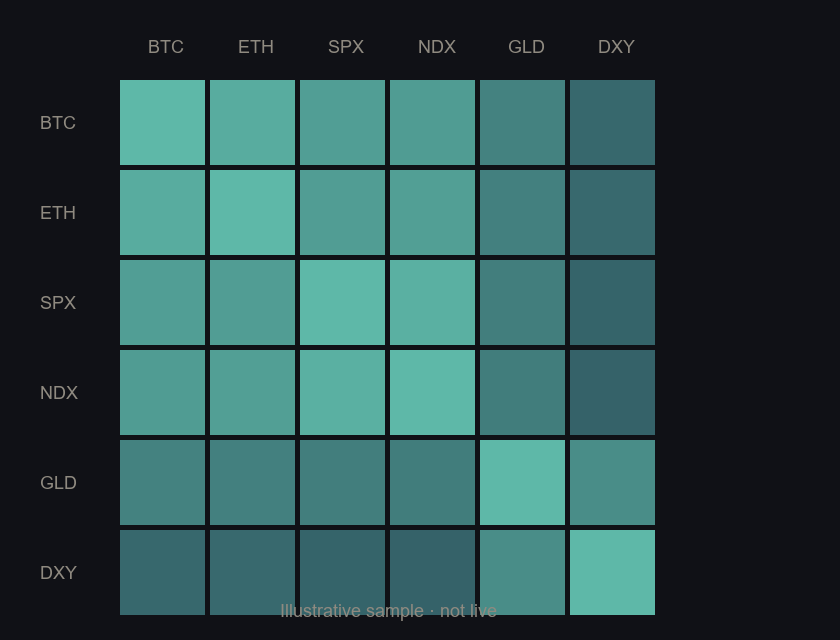
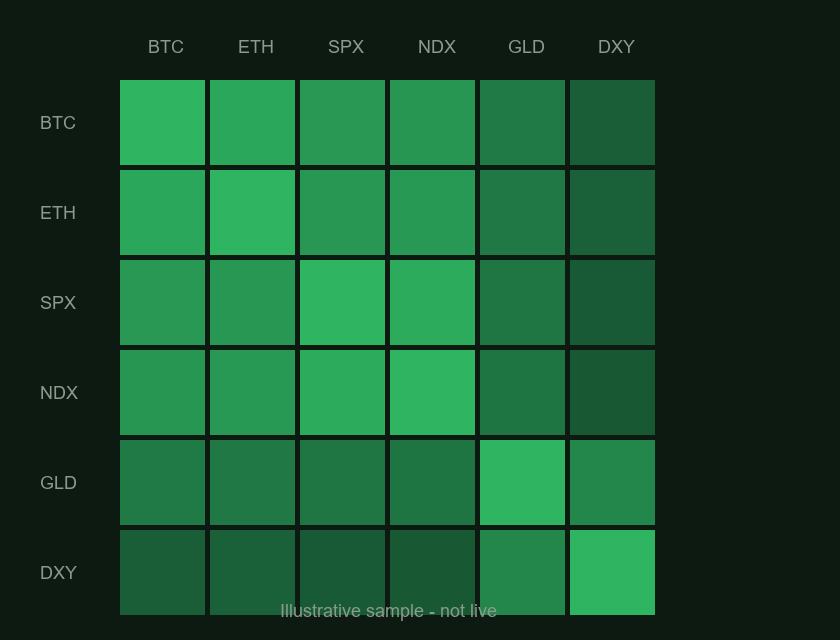
Retheme Aestus to green-primary Mark research chrome.

diff --git a/terminal.html b/terminal.html
@@ -41,13 +41,13 @@
           <defs>
             <linearGradient id="g" x1="0" y1="0" x2="1" y2="0">
               <stop offset="0" stop-color="#d46a8a"/>
-              <stop offset="0.5" stop-color="#6a9fd4"/>
-              <stop offset="1" stop-color="#5dbb72"/>
+              <stop offset="0.5" stop-color="#2f9e5a"/>
+              <stop offset="1" stop-color="#5ec47a"/>
             </linearGradient>
           </defs>
           <path d="M45 168 A 115 115 0 0 1 275 168" fill="none" stroke="#23262e" stroke-width="16" stroke-linecap="round"/>
           <path id="gaugeArc" d="M45 168 A 115 115 0 0 1 275 168" fill="none" stroke="url(#g)" stroke-width="16" stroke-linecap="round" stroke-dasharray="226 1000"/>
-          <text x="160" y="148" text-anchor="middle" font-family="Source Serif 4,serif" font-size="48" font-weight="600" fill="#a9cfee">62.4</text>
+          <text x="160" y="148" text-anchor="middle" font-family="Source Serif 4,serif" font-size="48" font-weight="600" fill="#5ec47a">62.4</text>
           <text x="160" y="172" text-anchor="middle" font-size="11.5" fill="#8f8a80">sample reading</text>
           <text x="40" y="190" text-anchor="middle" font-size="11" fill="#6a665c">0</text>
           <text x="280" y="190" text-anchor="middle" font-size="11" fill="#6a665c">100</text>
@@ -79,9 +79,9 @@
         <rect x="300" y="0" width="220" height="180" fill="#0e1a14" opacity="0.45"/>
         <rect x="520" y="0" width="100" height="180" fill="#1a0e14" opacity="0.4"/>
         <rect x="620" y="0" width="100" height="180" fill="#0e1a14" opacity="0.45"/>
-        <polyline fill="none" stroke="#5eb8a8" stroke-width="2.2"
+        <polyline fill="none" stroke="#5ec47a" stroke-width="2.2"
           points="20,120 60,110 100,95 140,100 180,88 220,105 260,112 300,90 340,78 380,70 420,75 460,68 500,80 540,110 580,125 620,95 680,72"/>
-        <polyline fill="none" stroke="#6a9fd4" stroke-width="1.4" stroke-dasharray="5 4"
+        <polyline fill="none" stroke="#2f9e5a" stroke-width="1.4" stroke-dasharray="5 4"
           points="20,130 60,128 100,118 140,122 180,115 220,125 260,130 300,120 340,112 380,108 420,110 460,105 500,112 540,128 580,135 620,120 680,108"/>
       </svg>
       <div class="note">Illustrative sample. Live data at genesis.</div>
@@ -126,8 +126,8 @@
           <circle cx="305" cy="95" r="34" fill="#1a0e14" stroke="#d46a8a" stroke-width="1.5"/>
           <text x="305" y="92" text-anchor="middle" fill="#fbe7ee" font-size="12" font-weight="600">Risk-Off</text>
           <text x="305" y="108" text-anchor="middle" fill="#d68aa0" font-size="9">ρ̄ → 1</text>
-          <path d="M90 85 Q120 60 145 85" fill="none" stroke="#6a9fd4" stroke-width="1.2"/>
-          <path d="M215 85 Q250 60 270 85" fill="none" stroke="#6a9fd4" stroke-width="1.2"/>
+          <path d="M90 85 Q120 60 145 85" fill="none" stroke="#2f9e5a" stroke-width="1.2"/>
+          <path d="M215 85 Q250 60 270 85" fill="none" stroke="#2f9e5a" stroke-width="1.2"/>
         </svg>
       </div>
       <div class="tcard">

diff --git a/style.css b/style.css
@@ -1,18 +1,18 @@
 :root {
-  --bg: #061018;
-  --bg-2: #0a1822;
-  --ink: #e7e2d4;
-  --head: #f5f1e6;
-  --muted: #8a9aa3;
-  --faint: #5c6b74;
-  --rule: #1c2c36;
-  --tide: #2f9e8f;
-  --tide-bright: #5ec4b4;
-  --sand: #d4b483;
-  --link: #7eb8c9;
-  --panel: #0c171f;
+  --bg: #07140e;
+  --bg-2: #0c1c14;
+  --ink: #e4ebe4;
+  --head: #f2f7f2;
+  --muted: #8a9a8c;
+  --faint: #5c6b5e;
+  --rule: #1c2e22;
+  --tide: #2f9e5a;
+  --tide-bright: #5ec47a;
+  --sand: #9cbc7a;
+  --link: #6fd98a;
+  --panel: #0c1a12;
   --green: #5dbb72;
-  --warn: #d4b483;
+  --warn: #c4b06a;
   --off: #d46a8a;
   --bar-h: 64px;
 }
@@ -22,8 +22,8 @@ html { scroll-behavior: smooth; }
 body {
   margin: 0;
   background:
-    radial-gradient(1200px 480px at 10% -10%, rgba(47, 158, 143, 0.14), transparent 55%),
-    radial-gradient(900px 420px at 100% 0%, rgba(212, 180, 131, 0.08), transparent 50%),
+    radial-gradient(1200px 480px at 10% -10%, rgba(47, 158, 90, 0.16), transparent 55%),
+    radial-gradient(900px 420px at 100% 0%, rgba(95, 196, 122, 0.08), transparent 50%),
     var(--bg);
   color: var(--ink);
   font-family: "Literata", "Source Serif 4", Georgia, serif;
@@ -135,7 +135,7 @@ a[aria-disabled="true"] {
 }
 .hero-aside {
   font-family: "DM Sans", sans-serif;
-  background: linear-gradient(160deg, rgba(47,158,143,0.12), transparent 60%), var(--panel);
+  background: linear-gradient(160deg, rgba(47,158,90,0.12), transparent 60%), var(--panel);
   border: 1px solid var(--rule);
   border-radius: 2px;
   padding: 18px 20px;
@@ -165,7 +165,7 @@ a[aria-disabled="true"] {
   stroke-width: 1.6;
 }
 .tide-svg path.soft {
-  stroke: rgba(47, 158, 143, 0.35);
+  stroke: rgba(47, 158, 90, 0.35);
   stroke-width: 1.2;
 }
 @media (prefers-reduced-motion: no-preference) {
@@ -285,7 +285,7 @@ a[aria-disabled="true"] {
   height: 96px;
   width: auto;
   border-radius: 50%;
-  filter: drop-shadow(0 8px 24px rgba(47, 158, 143, 0.2));
+  filter: drop-shadow(0 8px 24px rgba(47, 158, 90, 0.2));
 }
 
 h2 {
@@ -401,14 +401,14 @@ th {
 }
 .callout {
   border-left: 3px solid var(--sand);
-  background: rgba(212, 180, 131, 0.06);
+  background: rgba(156, 188, 122, 0.06);
   padding: 12px 16px;
   margin: 20px 0;
   font-size: 16px;
 }
 .honesty {
   border: 1px solid var(--rule);
-  background: linear-gradient(135deg, rgba(47,158,143,0.08), transparent 50%), var(--panel);
+  background: linear-gradient(135deg, rgba(47,158,90,0.08), transparent 50%), var(--panel);
   padding: 18px 20px;
   margin: 22px 0;
   border-radius: 2px;
@@ -584,7 +584,7 @@ body.terminal-page {
   align-items: center;
   justify-content: center;
   background:
-    linear-gradient(180deg, rgba(47,158,143,0.1), transparent 45%),
+    linear-gradient(180deg, rgba(47,158,90,0.1), transparent 45%),
     var(--panel);
 }
 .regime-tag {
